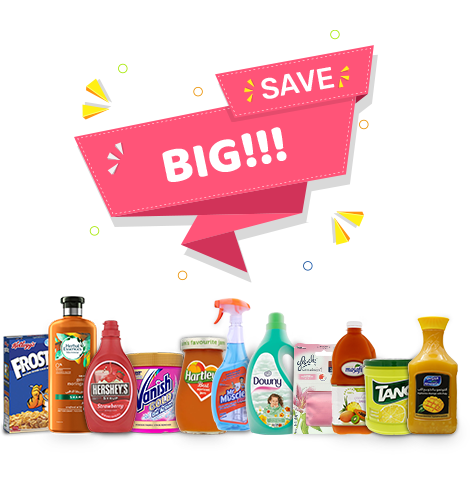
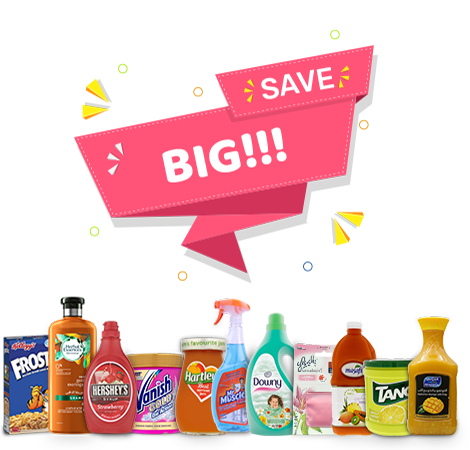
Fix: landing page UI issues fixed

diff --git a/public/css/integrate.css b/public/css/integrate.css
@@ -878,3 +878,21 @@ i.fa.fa-minus {
   width: 45px;
   border-radius: 50%;
 }
+.left-home,
+.right-home {
+  padding-bottom: 35px;
+  padding-left: 20px;
+}
+.Choose-from-a-range-of-pre-configured-bundles-and-save-huge {
+  margin-bottom: 0;
+}
+.right-home {
+  background-position: bottom;
+}
+.home-orange-bg1,
+.home-orange-bg {
+  padding-left: 35px;
+}
+.home-orange-bg {
+  margin-top: 2px;
+}
